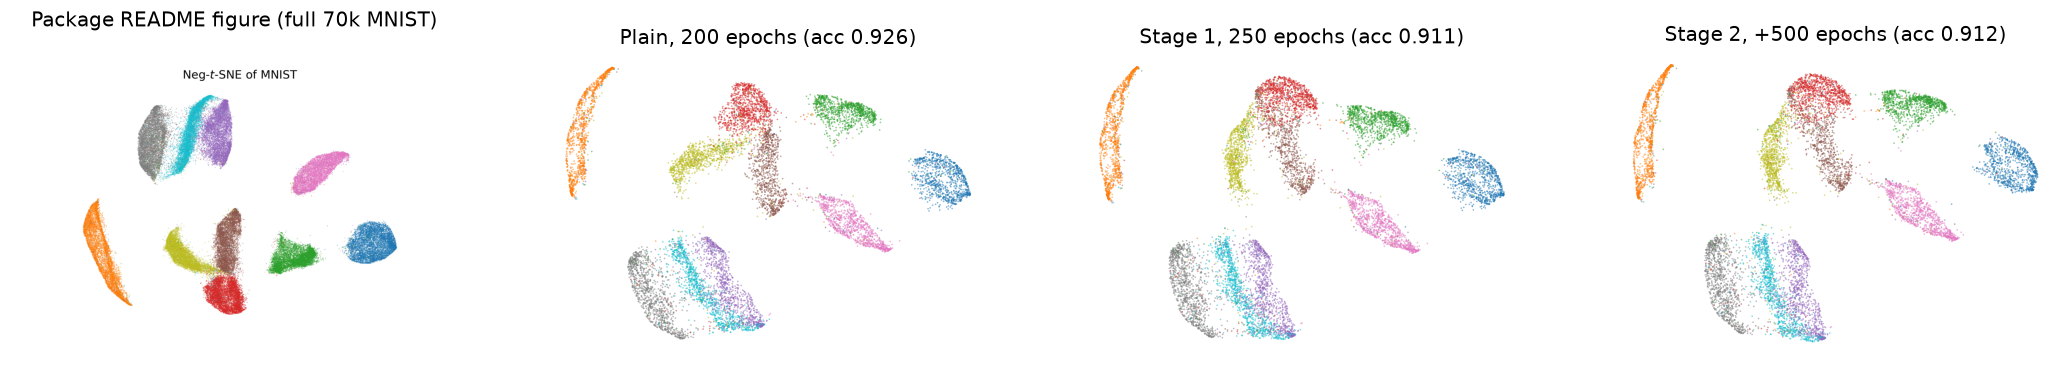
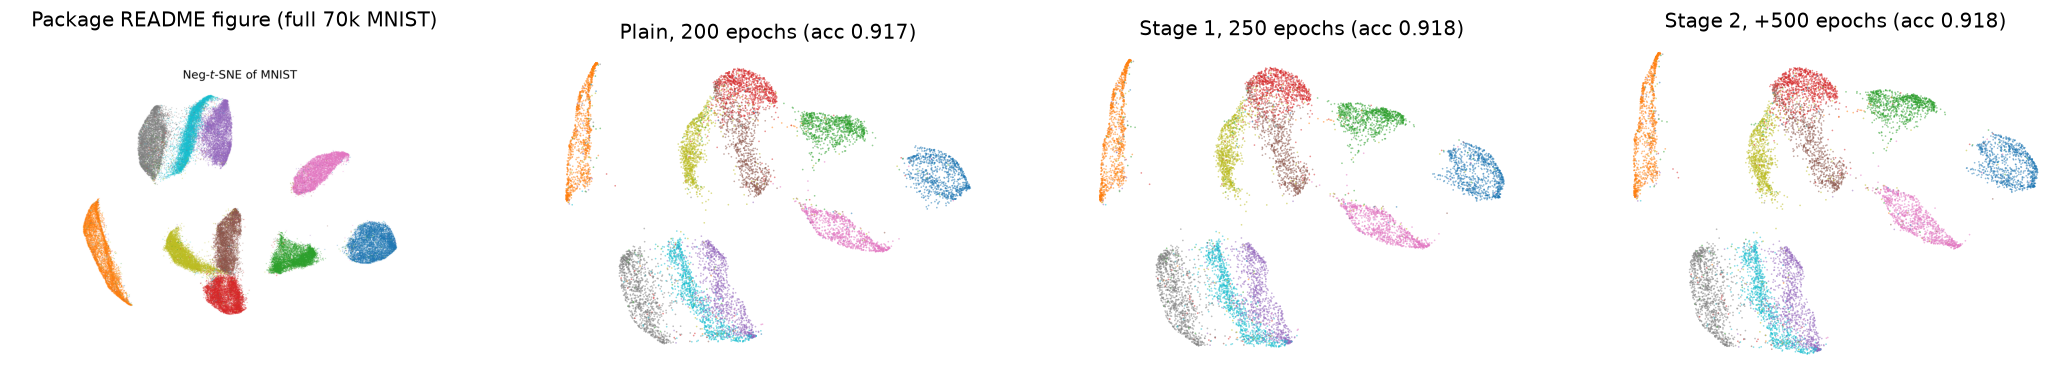
Project-wide determinism: deterministic torch, fixed threads, exact kNN graph, env recording

diff --git a/scripts/phase0_mnist_sanity.py b/scripts/phase0_mnist_sanity.py
@@ -4,7 +4,6 @@ Run from anywhere with the cne-bg env:  python scripts/phase0_mnist_sanity.py
 Outputs go to results/phase0/.
 """
 import json
-import subprocess
 import sys
 import time
 from pathlib import Path
@@ -15,7 +14,6 @@ matplotlib.use("Agg")
 import matplotlib.pyplot as plt
 import numpy as np
 import scipy.sparse as sp
-import torch
 import torchvision
 from sklearn.decomposition import PCA
 
@@ -24,11 +22,12 @@ sys.path.insert(0, str(ROOT))
 
 import cne  # noqa: E402
 from cne._cne import rescale  # noqa: E402
+from common.knn import knn_graph  # noqa: E402
+from common.repro import environment_info, setup_determinism  # noqa: E402
 from eval.metrics import knn_accuracy  # noqa: E402
 
 cne_core = sys.modules["cne.cne"]  # module holding ContrastiveEmbedding and new_lr
 
-UPSTREAM_COMMIT = "d5f0b530f35be4d6247300a601fb5a860bc0a1c8"
 OUT = ROOT / "results" / "phase0"
 DATA = ROOT / "data"
 PAPER_FIG = ROOT / "third_party" / "contrastive-ne" / "figures" / "negtsne_mnist.png"
@@ -103,19 +102,20 @@ def save_embedding_plot(embd, y, title, path):
 
 
 def main():
+    setup_determinism(SEED)
     OUT.mkdir(parents=True, exist_ok=True)
 
     x, y = load_mnist_subset()
     x50 = PCA(n_components=N_PCA, random_state=SEED).fit_transform(x).astype(np.float32)
 
-    # kNN graph: package code path (annoy, k=15, symmetrized), built once on the 50-dim PCA and reused everywhere,
-    # because the annoy index is unseeded. n_epochs=0 builds the graph without training.
-    graph_builder = cne.CNE(loss_mode="neg", seed=SEED, n_epochs=0)
-    graph_builder.fit(x50)
-    G = graph_builder.neighbor_mat.tocsr()
+    # kNN graph: exact k=15 neighbors on the 50-dim PCA, union-symmetrized and binary like the package's annoy graph,
+    # built once and reused by every fit. Built twice to check it is deterministic.
+    G = knn_graph(x50, k=15)
+    G_rebuilt = knn_graph(x50, k=15)
     sp.save_npz(OUT / "knn_graph.npz", G)
     deg = np.diff(G.indptr)
     graph_stats = {
+        "method": "exact (sklearn brute force), k=15, union-symmetrized, binary weights",
         "n": G.shape[0], "directed_edges": int(G.nnz), "degree_min": int(deg.min()),
         "degree_mean": float(deg.mean()), "degree_max": int(deg.max()),
         "symmetric": bool((G != G.T).nnz == 0), "weight_values": np.unique(G.data).tolist(),
@@ -148,6 +148,7 @@ def main():
         return [i for i in range(1, len(lrs)) if lrs[i] > lrs[i - 1]]
 
     checks = {
+        "knn_graph_rebuild_identical": bool((G != G_rebuilt).nnz == 0),
         "a_early_exaggeration_noop": bool(np.array_equal(plain["embd"], plain_no_ee["embd"])),
         "b_lr_resets_within_fit": {"plain": lr_resets(plain["lrs"]), "stage1": lr_resets(stage1["lrs"]),
                                    "stage2": lr_resets(stage2_a["lrs"])},
@@ -163,10 +164,8 @@ def main():
     def scale(e):
         return {"std_dim0": float(e[:, 0].std()), "std_dim1": float(e[:, 1].std())}
 
-    git_head = subprocess.run(["git", "-C", str(ROOT), "rev-parse", "HEAD"], capture_output=True, text=True).stdout.strip()
     summary = {
-        "upstream_commit": UPSTREAM_COMMIT, "project_git_head": git_head, "torch": torch.__version__,
-        "torch_num_threads": torch.get_num_threads(), "numpy": np.__version__,
+        "environment": environment_info(),
         "data": {"dataset": "MNIST train+test (70k)", "subset": N_SUBSET, "subset_seed": SEED,
                  "pixels": "raw float32 0-255, flattened", "graph_input": f"PCA-{N_PCA} of pixels"},
         "init": {"used": "first 2 PCs, rescaled so PC1 std = 1 (cne._cne.rescale, target_std=1.0), float32",

diff --git a/common/repro.py b/common/repro.py
@@ -1,0 +1,65 @@
+"""Project-wide reproducibility setup and environment recording (see Initial_Project_Plan.md, Reproducibility rules)."""
+import importlib.metadata
+import os
+import platform
+import random
+import subprocess
+import sys
+from pathlib import Path
+
+import numpy as np
+import torch
+
+ROOT = Path(__file__).resolve().parents[1]
+UPSTREAM_COMMIT = "d5f0b530f35be4d6247300a601fb5a860bc0a1c8"
+
+# Fixed torch thread count (Apple M3: 4 performance + 4 efficiency cores; 4 is also torch's default here).
+# If exact-equality checks fail, retry with 1 before investigating further.
+NUM_THREADS = 4
+
+
+def setup_determinism(seed, num_threads=NUM_THREADS):
+    """Call at startup: deterministic torch algorithms, fixed thread count, and torch/numpy/random seeded from `seed`."""
+    torch.use_deterministic_algorithms(True)
+    torch.set_num_threads(num_threads)
+    torch.manual_seed(seed)
+    np.random.seed(seed)
+    random.seed(seed)
+
+
+def _cpu_model():
+    if sys.platform == "darwin":
+        out = subprocess.run(["sysctl", "-n", "machdep.cpu.brand_string"], capture_output=True, text=True)
+        if out.returncode == 0:
+            return out.stdout.strip()
+    return platform.processor() or platform.machine()
+
+
+def _version(dist):
+    try:
+        return importlib.metadata.version(dist)
+    except importlib.metadata.PackageNotFoundError:
+        return None
+
+
+def _git_head():
+    head = subprocess.run(["git", "-C", str(ROOT), "rev-parse", "HEAD"], capture_output=True, text=True)
+    dirty = subprocess.run(["git", "-C", str(ROOT), "status", "--porcelain"], capture_output=True, text=True)
+    return {"head": head.stdout.strip() or None, "dirty": bool(dirty.stdout.strip())}
+
+
+def environment_info():
+    """Environment details to store with every results file."""
+    return {
+        "python": platform.python_version(),
+        "platform": platform.platform(),
+        "cpu_model": _cpu_model(),
+        "cpu_count": os.cpu_count(),
+        "torch": torch.__version__,
+        "torch_num_threads": torch.get_num_threads(),
+        "torch_deterministic_algorithms": torch.are_deterministic_algorithms_enabled(),
+        "packages": {d: _version(d) for d in
+                     ["numpy", "scipy", "scikit-learn", "torchvision", "annoy", "matplotlib", "contrastive-ne"]},
+        "contrastive_ne_upstream_commit": UPSTREAM_COMMIT,
+        "project_git": _git_head(),
+    }

diff --git a/common/knn.py b/common/knn.py
@@ -1,0 +1,33 @@
+"""Deterministic kNN graphs (exact search; see Initial_Project_Plan.md, Reproducibility rules)."""
+import numpy as np
+import scipy.sparse as sp
+from sklearn.neighbors import NearestNeighbors
+
+
+def knn_indices(X, k, Y=None):
+    """Exact Euclidean k nearest neighbors of each row of X among the rows of Y (default: X itself, excluding self).
+
+    Returns an (n_X, k) int array. Ties are broken by sklearn's deterministic brute-force ordering.
+    """
+    if Y is None:
+        nn = NearestNeighbors(n_neighbors=k + 1, algorithm="brute").fit(X)
+        idx = nn.kneighbors(X, return_distance=False)
+        # drop each point itself; with exact duplicates it need not be in column 0
+        self_mask = idx == np.arange(len(X))[:, None]
+        no_self = ~self_mask.any(axis=1)
+        self_mask[no_self, -1] = True
+        return idx[~self_mask].reshape(len(X), k)
+    nn = NearestNeighbors(n_neighbors=k, algorithm="brute").fit(Y)
+    return nn.kneighbors(X, return_distance=False)
+
+
+def knn_graph(X, k=15):
+    """Binary kNN graph symmetrized by union, the same structure contrastive-ne builds with annoy
+    (third_party/contrastive-ne/src/cne/_cne.py:423-430), but from exact neighbors."""
+    n = len(X)
+    idx = knn_indices(X, k)
+    rows = np.repeat(np.arange(n), k)
+    A = sp.coo_matrix((np.ones(n * k), (rows, idx.ravel())), shape=(n, n)).tocsr()
+    A = A.maximum(A.T).tocsr()
+    A.sort_indices()
+    return A

diff --git a/NOTES.md b/NOTES.md
@@ -32,7 +32,7 @@ Defaults that matter for `CNE(loss_mode="neg")`:
 - **annoy:** a Euclidean index with 50 trees, built **without a seed** (`_cne.py:418-420`). Query k+1 neighbors per point and drop the first, assumed to be the point itself (`_cne.py:425-426`).
 - **Symmetrization:** union. `adj[i, neighs] = 1; adj[neighs, i] = 1` (`_cne.py:427-428`). An edge (i,j) exists if j ∈ kNN(i) or i ∈ kNN(j).
 - **Weights:** binary (1) and in practice **ignored**. The loader turns the matrix into COO `row`/`col` and discards `data` (`_cne.py:100-102`). Every *stored* entry becomes an edge, including any explicit zeros in a user-supplied graph.
-- **User-supplied graph:** `graph=<scipy sparse>` is taken as-is via `graph.tocsr()` (`_cne.py:455`). Because annoy is unseeded, we build the graph once and pass it to every fit (see §7).
+- **User-supplied graph:** `graph=<scipy sparse>` is taken as-is via `graph.tocsr()` (`_cne.py:455`). Because annoy is unseeded, we never use the package's graph construction. Instead we build an **exact** kNN graph with the same structure (`common/knn.py`: k = 15, union-symmetrized, binary), once per dataset, and pass it to every fit (see §7 and Plan, Reproducibility rules).
 
 ## 2. Minibatches of directed edges
 
@@ -150,40 +150,40 @@ Consequences:
 ## 10. Empirical confirmation (`scripts/phase0_mnist_sanity.py`, `results/phase0/summary.json`)
 
 **Setup:**
+- Determinism: `common.repro.setup_determinism(0)` (deterministic torch algorithms, 4 threads, torch/numpy/random seeded).
 - Data: 10k random MNIST points (seed 0) drawn from all 70k, raw pixels.
-- kNN graph: built on a 50-dim PCA, then saved and reused for every fit.
+- kNN graph: exact k = 15 on a 50-dim PCA, union-symmetrized, built once and reused.
 - Init: PCA rescaled so PC1 has std 1, float32.
-- Hardware and software: CPU with 4 torch threads, torch 2.14.1.
+- Hardware and software: Apple M3, torch 2.14.1. The full environment is in `summary.json` under `environment`.
 
-**Graph:** 10,000 nodes and 210,596 directed edges. Degree is min 15, mean 21.1, max 53. The graph is symmetric, has all weights equal to 1, and has no self-loops.
+**Graph:** 10,000 nodes and 210,584 directed edges. Degree is min 15, mean 21.1, max 54. The graph is symmetric, binary, and has no self-loops. Building it twice gives identical graphs.
 
 **Results:**
 
-| Run | Epochs | kNN acc (k=15, 5-fold) | std(dim0), std(dim1) | Runtime |
-|---|---|---|---|---|
-| Plain (package defaults) | 200 | 0.926 | 6.00, 4.38 | 7.7 s |
-| Stage 1 | 250 | 0.911 | 5.87, 4.48 | 9.4 s |
-| Stage 2 (from Stage 1) | +500 | 0.912 | 5.88, 4.52 | 20.9 s |
+| Run | Epochs | kNN acc (k=15, 5-fold) | Runtime |
+|---|---|---|---|
+| Plain (package defaults) | 200 | 0.917 | 7.5 s |
+| Stage 1 | 250 | 0.918 | 9.4 s |
+| Stage 2 (from Stage 1) | +500 | 0.918 | 19.8 s |
 
 **Qualitative comparison** (`results/phase0/comparison.png`):
 - The structure is the same as the package README's Neg-t-SNE figure (full 70k): compact, well-separated digit clusters.
 - 4/7/9 form one block and 3/5/8 sit next to each other; 1 is a long thin arc; 0, 2 and 6 are isolated clusters.
 - At 10k points the clusters are sparser, as expected. Stage 2 is stable: no fragmentation and no change in scale.
 
-**Schedule facts:**
-- **(c) confirmed.** The Stage 2 start weights (read through the epoch −1 callback) are exactly equal to the Stage 1 output, float32 (`np.array_equal` = True). The plain run likewise starts exactly at the PCA init. **Stage 2 is therefore a new `CNE.fit(init=stage1_embd, graph=G)`, and the in-loop fallback is not needed.**
-- **(b) confirmed.** The recorded per-epoch learning rates fall monotonically in every fit, with no reset (`results/phase0/lr_schedule.png`). Stage 2 restarts at 1.0 and falls to 0.002.
-- **(a) confirmed only with deterministic algorithms.** In the main run, plain with early exaggeration on vs off was **not** bit-identical. The cause is the nondeterminism below, not early exaggeration: with `torch.use_deterministic_algorithms(True)`, EE on vs off over 200 epochs **is** bit-identical.
+**Schedule facts (all confirmed empirically):**
+- **(a) Early exaggeration is a no-op for neg defaults.** Plain runs with EE on and off are bit-identical.
+- **(b) No LR reset.** The recorded per-epoch learning rates fall monotonically in every fit (`results/phase0/lr_schedule.png`). Stage 2 restarts at 1.0 and falls to 0.002.
+- **(c) A custom init is used unchanged.** The Stage 2 start weights (read through the epoch −1 callback) are exactly equal to the Stage 1 output, float32. The plain run starts exactly at the PCA init.
+- **Approach used:** Stage 2 is a new `CNE.fit(init=stage1_embd, graph=G)`. The in-loop fallback is not needed.
 
-**Reproducibility problem: same-seed reruns are not bit-identical on CPU by default.**
-- Two Stage 2 runs with the same init, graph and seed differ: the final embeddings are not equal, and the epoch-0 mean loss is already 58742.266 vs 58742.265.
-- Diagnosis (scratch script, 20-epoch fits from the PCA init):
+**Reproducibility:**
+- **Within a run:** the Stage 2 rerun is bit-identical.
+- **Across two separate invocations of the script:** the kNN graph, PCA init, and plain, Stage 1 and Stage 2 embeddings are all bit-identical at 4 threads. The 1-thread fallback was not needed.
+- **Deterministic mode:** no op raised an error.
 
-| torch setting | 1 epoch: max abs diff | 20 epochs: max abs diff | 200-epoch runtime |
-|---|---|---|---|
-| default (4 threads) | 2.3e-5 | 7.4 | 8.4 s |
-| `torch.use_deterministic_algorithms(True)` | 0 | 0 | 8.3 s |
-| `torch.set_num_threads(1)` | 0 | 0 | 14.3 s |
-
-- The likely source is multithreaded scatter-add in the backward pass (the `features[neigh_inds]` gather and/or the embedding backward). Its float summation order varies between runs, and the chaotic optimization amplifies the differences.
-- The fix is deterministic algorithms, which have no measurable runtime cost. This is **not yet applied** in `scripts/phase0_mnist_sanity.py`, pending a decision (Plan §6 stop condition).
+**History, before the project-wide determinism rule:**
+- With torch defaults (4 threads, non-deterministic algorithms), same-seed reruns diverged: max |diff| was 2.3e-5 after 1 epoch and 7.4 after 20 epochs.
+- Both `torch.use_deterministic_algorithms(True)` (8.3 s vs 8.4 s per 200 epochs) and `torch.set_num_threads(1)` (14.3 s) removed the divergence.
+- The likely source is multithreaded scatter-add in the backward pass (the `features[neigh_inds]` gather and/or the embedding backward), whose float summation order varies between runs.
+- With the package's annoy graph (now replaced by the exact graph), the plain run's kNN accuracy was 0.926.

diff --git a/Initial_Project_Plan.md b/Initial_Project_Plan.md
@@ -27,7 +27,14 @@ Scope of this plan: **non-parametric mode only**, synthetic data only, CPU is fi
 4. Sweep values: m_B ∈ {0, 1, 2, 5, 10, 20}, γ = 1.
 5. Package version: contrastive-ne v0.4.0 (`d5f0b53`), vendored in `third_party/contrastive-ne`.
 6. Initialization: always passed explicitly. Stage 1 uses PCA (first 2 PCs) rescaled so PC1 has std 1 (paper, Supp. K.2), as float32; never the package default (v0.4.0 default is PCA rescaled to std 1e-4). Stage 2 uses the Stage 1 embedding unchanged.
-7. kNN graph: built on a 50-dim PCA of the data with the package's code path (annoy, k = 15, symmetrized), computed **once per dataset**, saved, and passed as `graph=` to every fit (both stages, all runs, all seeds). The annoy index is unseeded, so rebuilding it per fit would change the graph between runs.
+7. kNN graph: built on a 50-dim PCA of the data with **exact** kNN (`common/knn.py`; k = 15, union-symmetrized, binary weights, the same structure as the package's annoy graph), computed **once per dataset**, saved, and passed as `graph=` to every fit (both stages, all runs, all seeds). The package's own annoy index is unseeded, so it is never used.
+
+### Reproducibility rules (project-wide)
+1. At startup, all project code calls `common.repro.setup_determinism(seed)`: `torch.use_deterministic_algorithms(True)`, and torch, numpy and `random` seeded from the run's seed.
+2. `torch.set_num_threads` is fixed to a recorded value (`common.repro.NUM_THREADS = 4`). If an exact-equality test fails, retry with 1 thread before investigating further, and note the result.
+3. The target kNN graph and the ξ_B background-kNN step must be deterministic: exact kNN, or approximate kNN with a fixed seed plus a check that two builds give identical graphs.
+4. If the deterministic-algorithms flag raises an error for some op, do not disable it globally. Report which op and where, and propose a deterministic alternative.
+5. Every results file is saved with environment details (`common.repro.environment_info()`: package versions, torch version, thread count, deterministic flag, CPU model, project git HEAD).
 
 ## 1. Phase 0 — Understand the package (no modifications yet)
 
@@ -67,7 +74,7 @@ Add a `signal_to_background` scale parameter.
 
 Default definition: **background-neighbor overlap**.
 1. Apply identical preprocessing to X_T and X_B (same feature scaling, no separate centering).
-2. Build a kNN index on X_B (exact or approximate; e.g. pynndescent or sklearn). For each target point i, find its k_B = 15 nearest background points, N_B(i).
+2. Build a kNN index on X_B. It must be deterministic (Reproducibility rule 3): exact (`common.knn.knn_indices(X_T, k_B, Y=X_B)`), or approximate with a fixed seed and a two-build identity check. For each target point i, find its k_B = 15 nearest background points, N_B(i).
 3. Build an inverted index from each background point to the target points that have it in N_B. Candidate pairs (i, j) are target points sharing at least one background neighbor. This avoids computing all n_T² pairs.
 4. For candidates, compute the Jaccard similarity s_B(i, j) = |N_B(i) ∩ N_B(j)| / |N_B(i) ∪ N_B(j)|. Exclude j = i.
 5. For each i, keep the top L = 30 candidates with s_B > 0. Store as CSR arrays (indptr, indices, probs), where probs are s_B normalized per row. This is a per-head sampling distribution ξ_B(i, ·).
